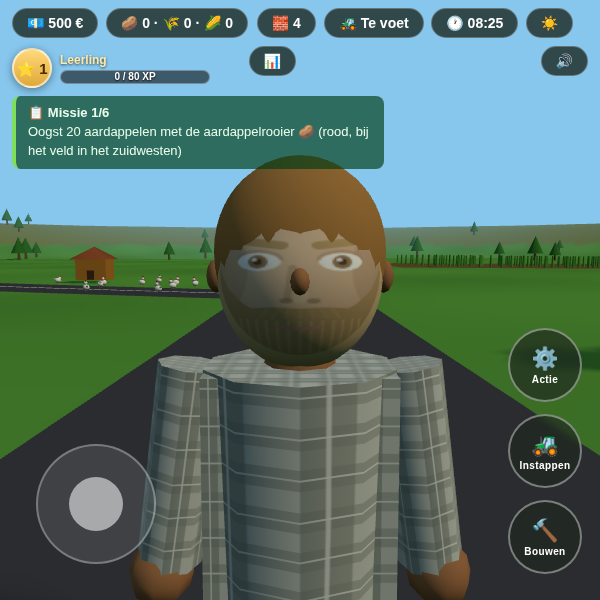
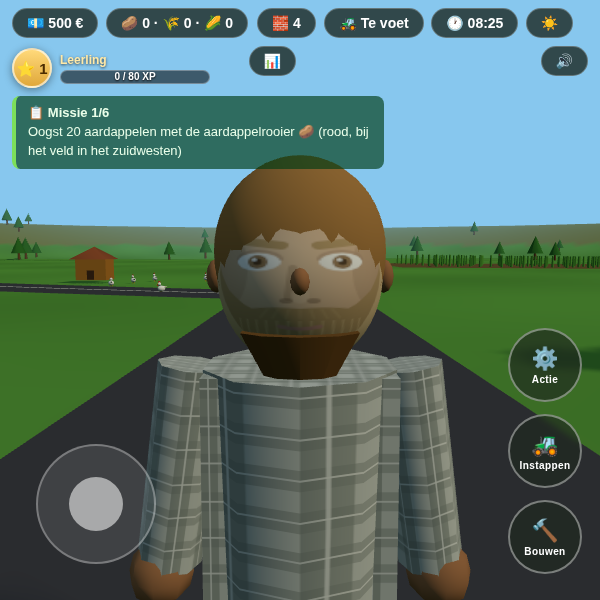
Barbe plus longue
- Prolongement de la barbe sur la texture, descendant sous le menton
- Pointe de barbe en relief 3D (cône) suspendue sous le menton jusqu'au col
- Mèches ajoutées pour le volume de la partie longue

Claude-Session: https://claude.ai/code/session_01DwCG8YEj6A6GqMB6GLeeGx

Changed region(s): [[0.39, 0.54, 0.6, 0.66], [0.09, 0.45, 0.33, 0.48]]

diff --git a/src/vehicles.js b/src/vehicles.js
@@ -692,6 +692,22 @@ function faceTexture() {
   }
   x.restore();
 
+  // prolongement de la barbe sous le menton (barbe longue, hors de l'ovale)
+  x.fillStyle = beard;
+  x.beginPath();
+  x.moveTo(faceCx - 28, faceCy + 58);
+  x.quadraticCurveTo(faceCx - 24, faceCy + 104, faceCx, faceCy + 122);
+  x.quadraticCurveTo(faceCx + 24, faceCy + 104, faceCx + 28, faceCy + 58);
+  x.quadraticCurveTo(faceCx, faceCy + 80, faceCx - 28, faceCy + 58);
+  x.fill();
+  x.strokeStyle = beardHi; x.lineWidth = 1.3;
+  for (let i = -3; i <= 3; i++) {
+    x.beginPath();
+    x.moveTo(faceCx + i * 7, faceCy + 68);
+    x.lineTo(faceCx + i * 4.5, faceCy + 114);
+    x.stroke();
+  }
+
   // implantation des cheveux (front + houppe)
   x.fillStyle = hairCol;
   x.beginPath();
@@ -854,6 +870,13 @@ export function buildFarmer() {
     ear.position.set(sx * 0.27, 2.33, 0.02);
     g.add(ear);
   }
+  // barbe longue en relief : pend sous le menton
+  const beardMat = mat(0x6f4a22);
+  const beardTip = new THREE.Mesh(new THREE.ConeGeometry(0.16, 0.34, 10), beardMat);
+  beardTip.rotation.x = Math.PI;        // pointe vers le bas
+  beardTip.scale.set(1.15, 1, 0.75);
+  beardTip.position.set(0, 2.0, 0.16);
+  g.add(beardTip);
 
   return g;
 }
